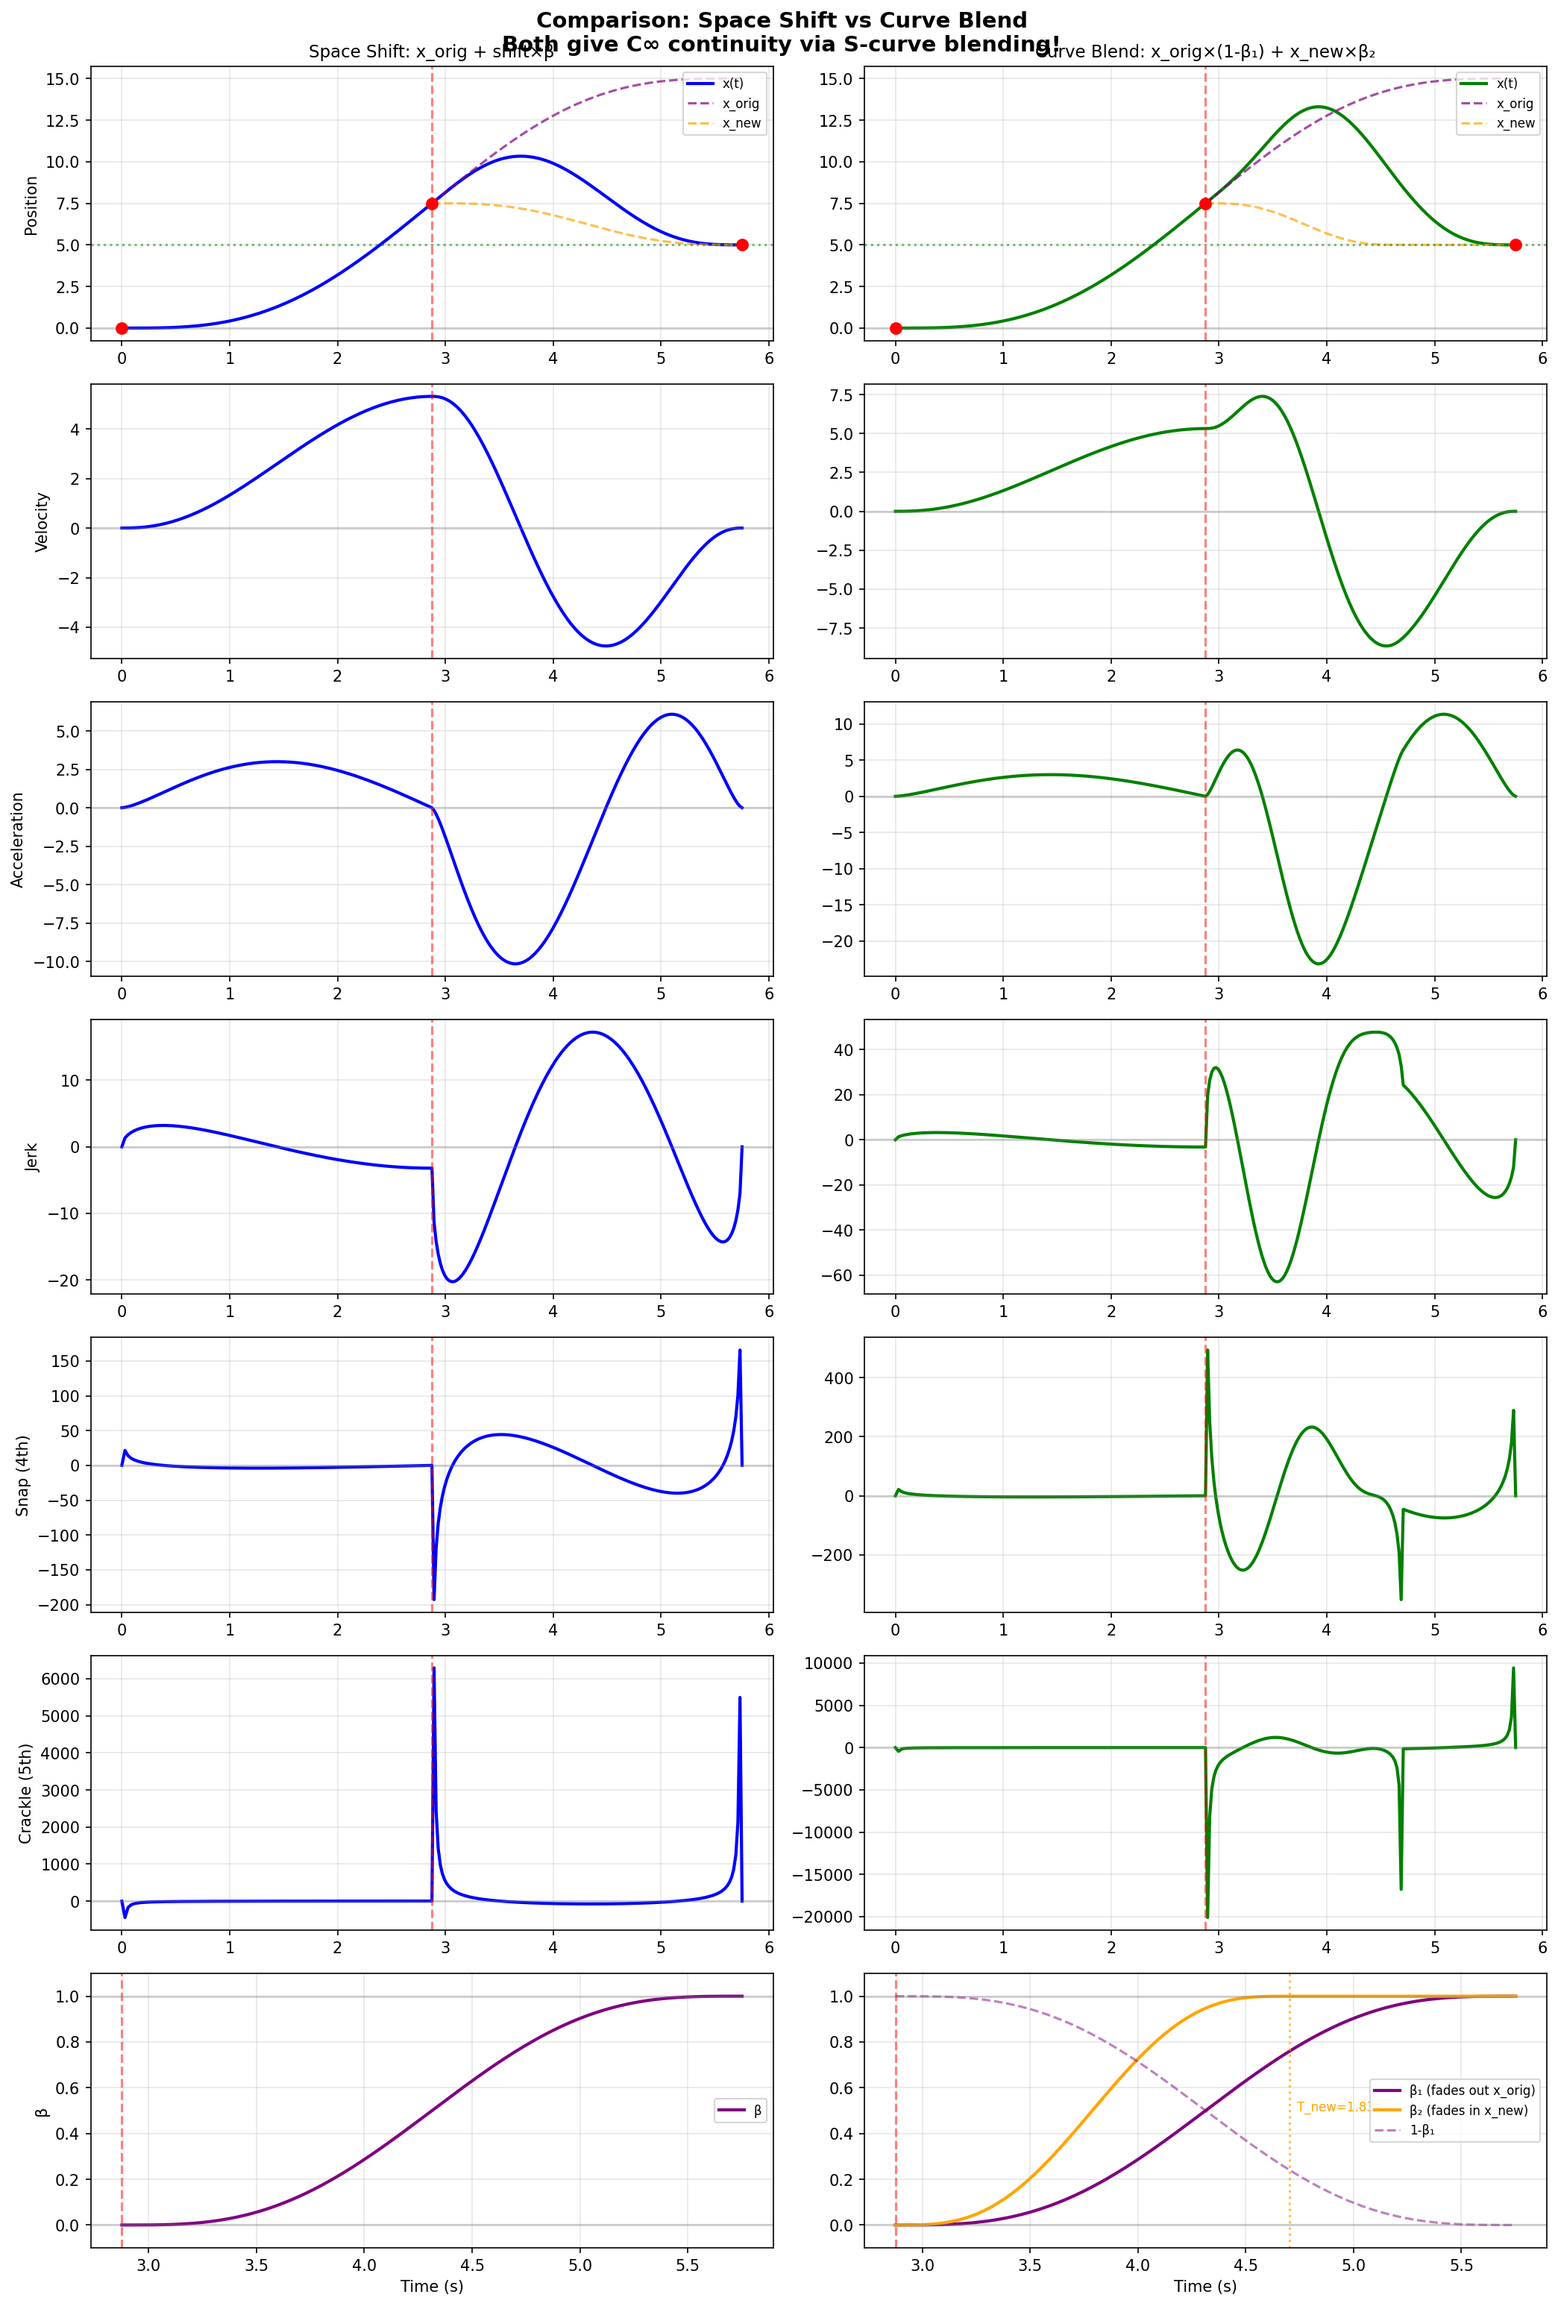
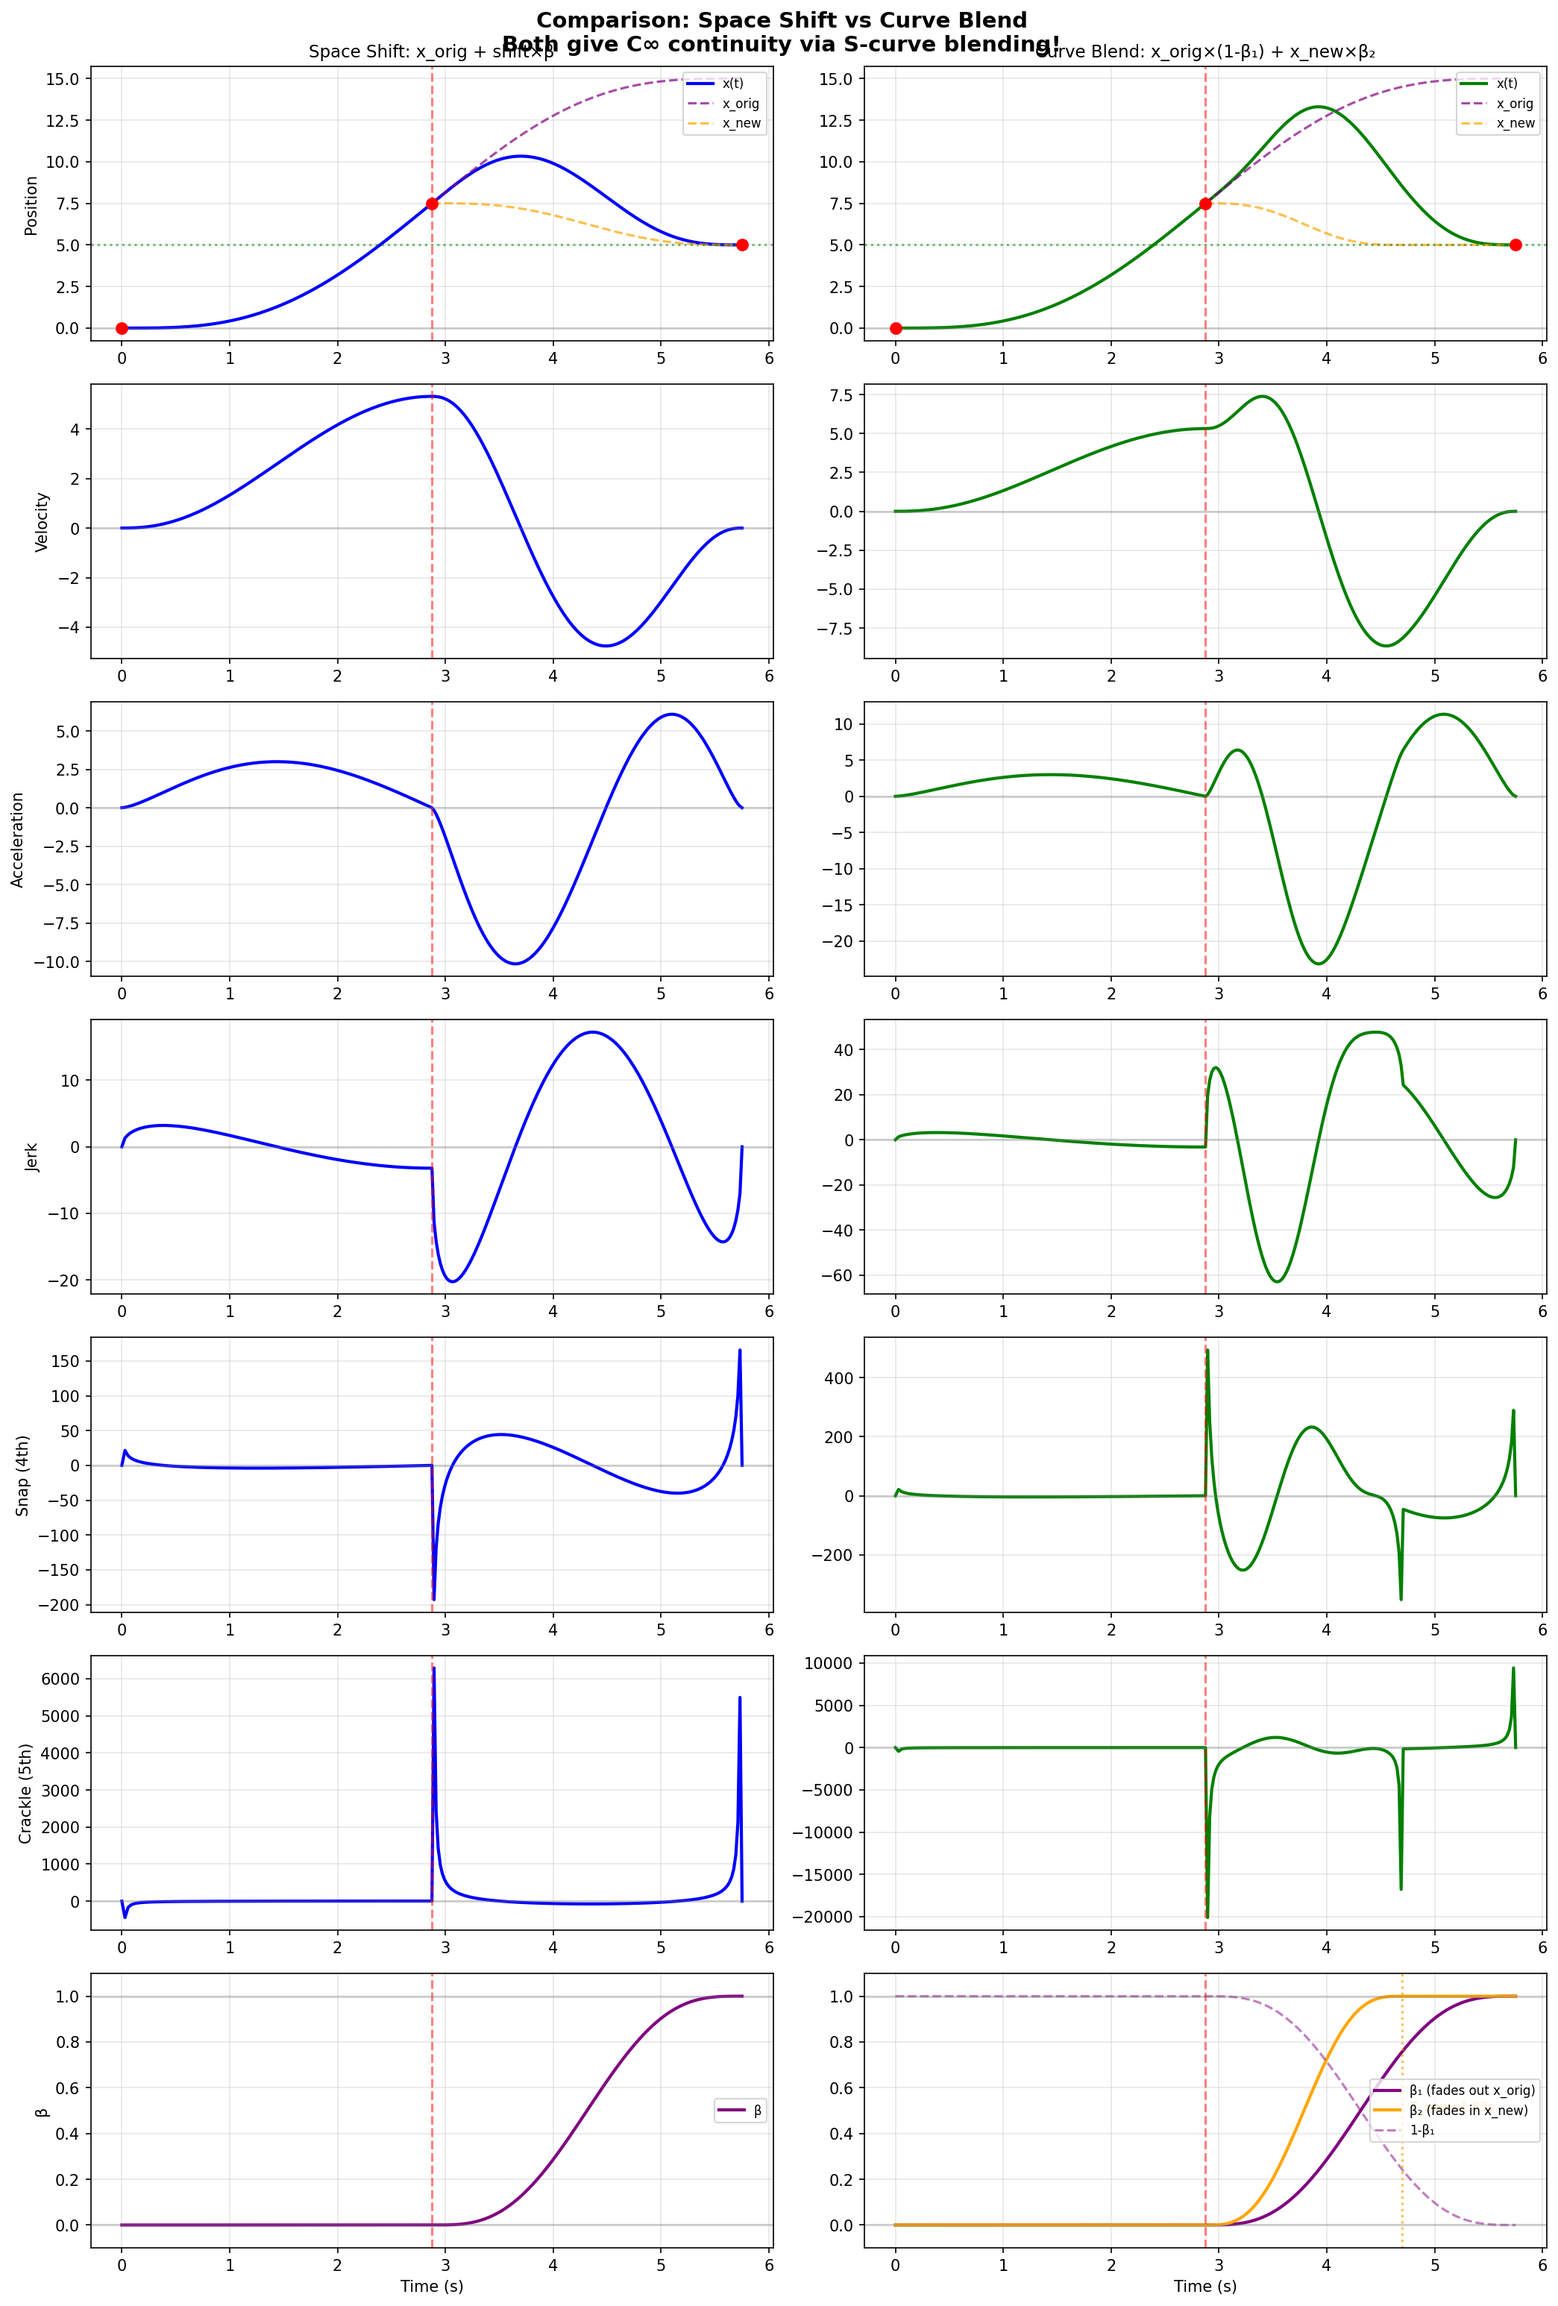
Fix beta plot x-axis to match other rows (start from t=0)

diff --git a/generate_plots.py b/generate_plots.py
@@ -885,15 +885,19 @@ def plot_blend_comparison():
                           [pos1[0], pos1[-1], pos2[-1]], color='red', s=50, zorder=5)
                 ax.legend(loc='upper right', fontsize=8)
 
-        # Plot beta functions (row 6)
+        # Plot beta functions (row 6) - use full time range like other plots
         ax = axs[6, col]
         t2_extended = np.linspace(0, T2, 200)
 
+        # Full timeline matching other plots
+        t_full = np.concatenate([t1, t_interrupt + t2_extended])
+
         if mode == 'shift':
-            # Single β over duration T
+            # Single β over duration T (0 before interrupt)
             s = t2_extended / T2
             beta = _beta_s(s)
-            ax.plot(t_interrupt + t2_extended, beta, color='purple', linewidth=2, label='β')
+            beta_full = np.concatenate([np.zeros_like(t1), beta])
+            ax.plot(t_full, beta_full, color='purple', linewidth=2, label='β')
             ax.set_ylabel('β' if col == 0 else '')
         else:
             # Two betas: β₁ over T_remaining_orig, β₂ over T_new
@@ -910,9 +914,13 @@ def plot_blend_comparison():
             beta2 = _beta_s(s2)
             beta2 = np.where(t2_extended > T_new, 1.0, beta2)
 
-            ax.plot(t_interrupt + t2_extended, beta1, color='purple', linewidth=2, label='β₁ (fades out x_orig)')
-            ax.plot(t_interrupt + t2_extended, beta2, color='orange', linewidth=2, label='β₂ (fades in x_new)')
-            ax.plot(t_interrupt + t2_extended, 1 - beta1, color='purple', linewidth=1.5,
+            # Full timeline (0 before interrupt)
+            beta1_full = np.concatenate([np.zeros_like(t1), beta1])
+            beta2_full = np.concatenate([np.zeros_like(t1), beta2])
+
+            ax.plot(t_full, beta1_full, color='purple', linewidth=2, label='β₁ (fades out x_orig)')
+            ax.plot(t_full, beta2_full, color='orange', linewidth=2, label='β₂ (fades in x_new)')
+            ax.plot(t_full, 1 - beta1_full, color='purple', linewidth=1.5,
                    linestyle='--', alpha=0.5, label='1-β₁')
 
             # Mark T_new if different from T
